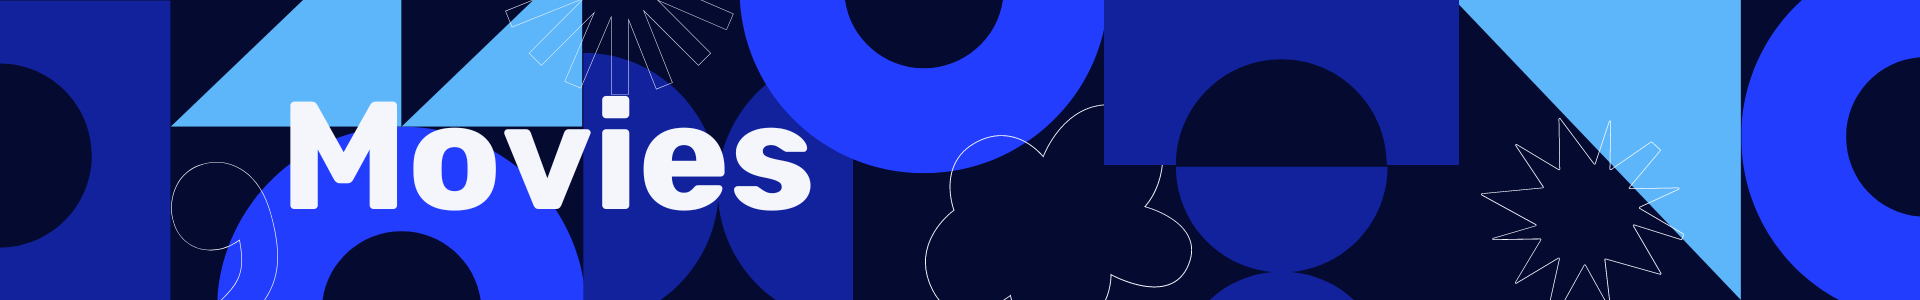
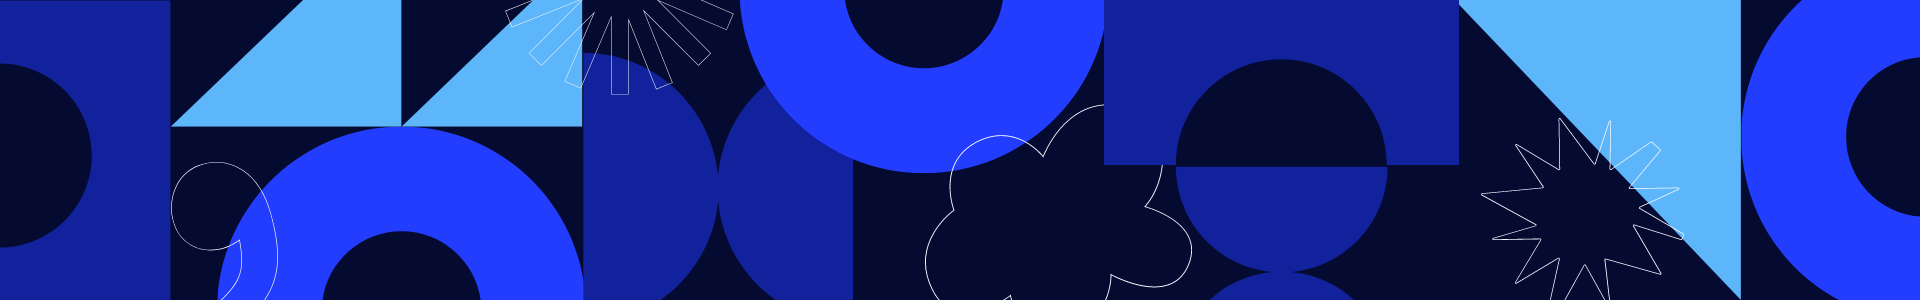
Template.php -> Ajout du header (image + titre) / Du menu burger pour la version mobile / De la barre de recherche / du footer.
Ajout des images dans img

Changed region(s): [[0.125, 0.33, 0.4375, 0.72], [0.3125, 0.3, 0.3438, 0.39]]

diff --git a/css/style.css b/css/style.css
@@ -1,0 +1,139 @@
+* {
+    padding: 0;
+    margin: 0;
+    box-sizing: border-box;
+}
+
+main {
+    background-image: url('../img/bgbody.png');
+    background-size: cover;
+}
+
+@media only screen and (min-width: 250px) {
+
+figure {
+    position: relative;
+}
+
+figure img {
+    display: block;
+}
+
+figcaption {
+    position: absolute;
+    top: 20px;
+    left: 0px;
+    margin: 0 40px;
+}
+
+h1 {
+    color: white;
+    font-size: 3em;
+}
+
+a {
+    color: white;
+    text-decoration: none;
+}
+
+figure img {
+    width: 100%;
+    height: 100px;
+}
+
+nav ul {
+    position: fixed;
+    top: -100%;
+    width: 100vw;
+    height: 120px;
+    flex-direction: column;
+    background-color: #0F5494;
+    text-align: center;
+    transition: 0.25s;
+}
+
+#icons {
+    display: block;
+}
+
+#icons:before {
+    content: "\2630";
+    color: #2585CA;
+    padding: 15px;
+    font-size: 1.5em;
+    background-color: white;
+    border-radius: 50%;
+    position: absolute;
+    top: -12px;
+    right: -5px;
+}
+
+.active #icons:before {
+    content: "\2715";
+    z-index: 3;
+}
+
+nav.active ul {
+    z-index: 2;
+    top: 0;
+}
+
+nav li {
+    padding: 10px 0;
+}
+
+footer {
+    width: 100%;
+    background-color: #0F5494;
+}
+
+footer h2, p {
+    color: white;
+}
+
+h2 {
+    padding-top: 10px;
+}
+
+h2, p {
+    padding-left: 10px;
+}
+
+.reseau {
+    display: flex;
+    justify-content: center;
+    padding: 10px 0;
+}
+
+.reseau i {
+    color: white;
+    margin: 0 15px;
+    font-size: 1.5em;
+}
+
+#copyright {
+    display: flex;
+    justify-content: center;
+}
+
+.searchBar {
+    padding: 30px 0;
+    position: relative;
+    display: flex;
+    justify-content: center;
+}
+
+.searchBar a {
+    color: black;
+    position: absolute;
+    top: 36px;
+    right: 18%;
+}
+
+#research {
+    height: 28px;
+    width: 70%;
+    border-radius: 15px;
+    border: 1px solid;
+}
+}

diff --git a/js/script.js b/js/script.js
@@ -1,0 +1,13 @@
+let icons = document.querySelector('#icons')
+let nav = document.querySelector('nav')
+let links = document.querySelectorAll('nav li')
+
+icons.addEventListener("click", () => {
+    nav.classList.toggle("active");
+})
+
+links.forEach((link) => {
+    link.addEventListener("click", () => {
+        nav.classList.remove("active");
+    })
+})

diff --git a/template.php b/template.php
@@ -3,27 +3,54 @@
 <head>
     <meta charset="UTF-8">
     <meta name="viewport" content="width=device-width, initial-scale=1.0">
+    <link rel="stylesheet" href="https://cdnjs.cloudflare.com/ajax/libs/font-awesome/6.5.1/css/all.min.css" integrity="sha512-DTOQO9RWCH3ppGqcWaEA1BIZOC6xxalwEsw9c2QQeAIftl+Vegovlnee1c9QX4TctnWMn13TZye+giMm8e2LwA==" crossorigin="anonymous" referrerpolicy="no-referrer" />
     <link rel="stylesheet" href="css/style.css">
     <title> <?= $titrePage; ?> </title>
 </head>
 <body>
     <header>
-        <label>
-            <input type="checkbox">
-            <span class="menu"><span class="hamburger"></span> </span>
+
+        <figure>
+            <img src="img/Movies.png" title="Movies, nom du site">
+            <figcaption>
+                <h1>Movies</h1>
+            </figcaption>
+        </figure>
+
+        <nav>
             <ul>
                 <li> <a href="index.php"> Acceuil </a></li>
                 <li> <a href="listeFilm.php"> Liste Film </a></li>
                 <li> <a href="recap.php"> Infos </a></li>
             </ul>
-        </label>
-
-        <figure>
-            <img src="img/Movies.png" title="Movies, nom du site">
-        </figure>
+            <div id="icons"></div>
+        </nav>
+        
 
     </header>
 
+<main>
+    <div class="searchBar">
+        <input type="search" id="research" name="research" placeholder="&nbsp;&nbsp;&nbsp;Recherche ...">
+        <a href="#"><i class="fa-solid fa-magnifying-glass"></i></a>
+    </div>
+    
     <?= $content; ?>
+
+</main>
+
+    <footer>
+        <h2>Contact</h2>
+        <p>monmail@monmail.fr <i class="fa-regular fa-envelope"></i></p>
+
+        <div class="reseau">
+            <i class="fa-brands fa-facebook"></i>
+            <i class="fa-brands fa-linkedin"></i>
+        </div>
+
+        <p id="copyright">Copyright Alex -&nbsp;<a href="#">Mentions légal </a></p>
+    </footer>
+
+    <script defer src="js/script.js"></script>
 </body>
 </html>

diff --git a/listeFilm.php b/listeFilm.php
@@ -1,0 +1,12 @@
+<?php 
+    require_once('databaseConnect.php');
+    ob_start();
+?>
+
+<?php
+    $titrePage = "Movies - Liste film";
+
+    $content = ob_get_clean();
+
+    require_once "template.php"; 
+?>

diff --git a/recap.php b/recap.php
@@ -1,0 +1,12 @@
+<?php 
+    require_once('databaseConnect.php');
+    ob_start();
+?>
+
+<?php
+    $titrePage = "Movies - Recap";
+
+    $content = ob_get_clean();
+
+    require_once "template.php"; 
+?>
